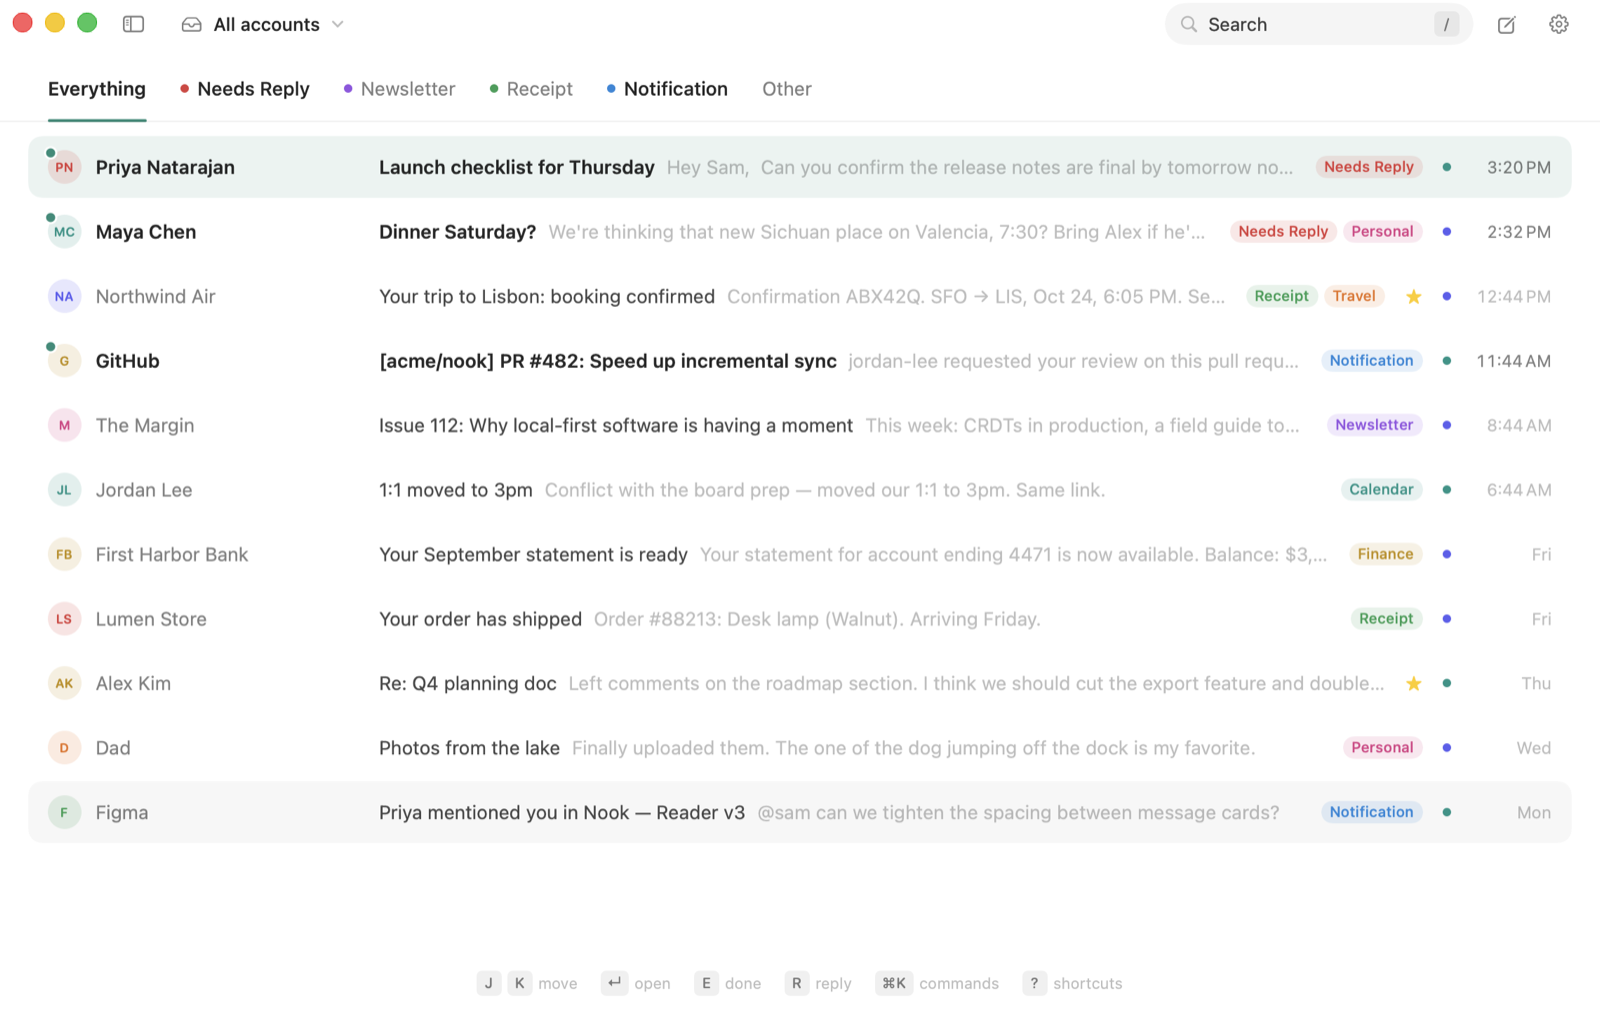
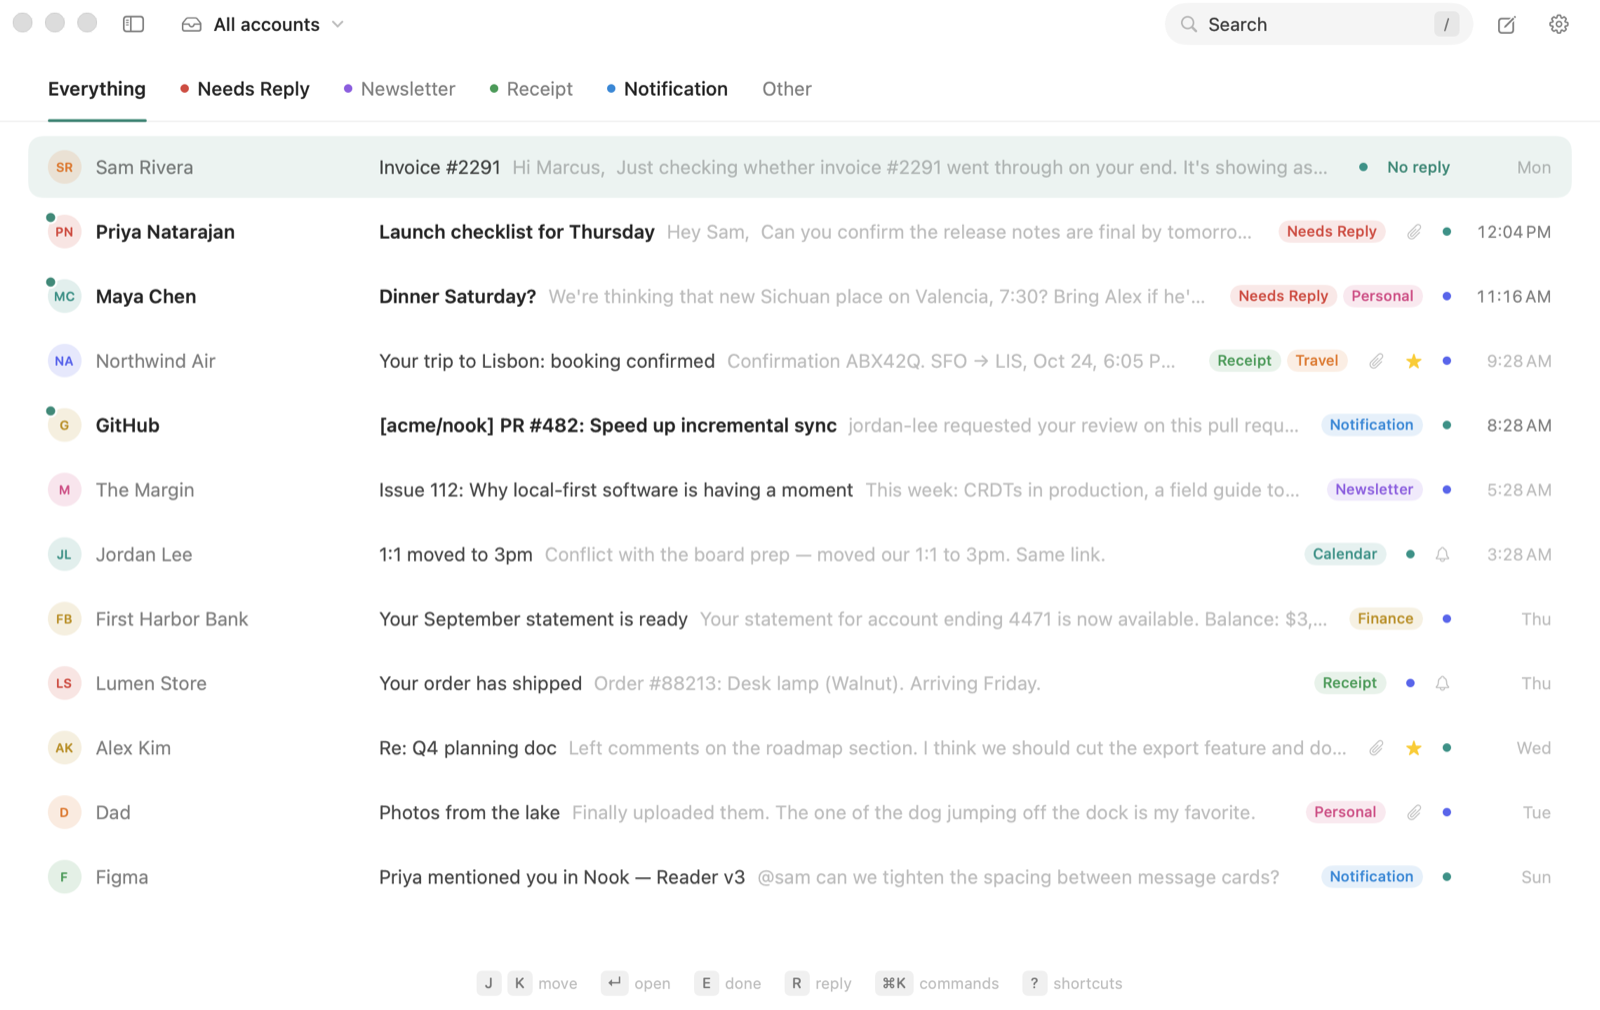
README: fresh screenshots, plus calendar and reply with a file

diff --git a/README.md b/README.md
@@ -25,9 +25,11 @@ https://github.com/user-attachments/assets/e89b9840-02cc-4deb-b770-9b332c44e0b2
 - **Private by default.** There's no Nook server. The app talks straight to Gmail using an OAuth client you control. Tokens live in the macOS Keychain. Remote images, which often act as tracking pixels, are blocked unless you load them (once, or always for a sender or domain you trust), and JavaScript in email never runs.
 - **Encrypted at rest.** The local mail store is encrypted with SQLCipher (AES-256) using a key that never leaves your Mac's Keychain.
 
-| Split inbox | Reader | Dark mode | Command palette |
-| --- | --- | --- | --- |
-| ![Split inbox](docs/screenshots/list.png) | ![Reader](docs/screenshots/reader.png) | ![Dark mode](docs/screenshots/reader-dark.png) | ![Command palette](docs/screenshots/palette.png) |
+| Split inbox | Reader with attachments | Dark mode |
+| --- | --- | --- |
+| ![Split inbox](docs/screenshots/list.png) | ![Reader with attachments](docs/screenshots/reader.png) | ![Dark mode](docs/screenshots/reader-dark.png) |
+| **Calendar** | **Reply with a file** | **Command palette** |
+| ![Calendar](docs/screenshots/calendar.png) | ![Reply with a file](docs/screenshots/compose.png) | ![Command palette](docs/screenshots/palette.png) |
 
 ## Download
 
